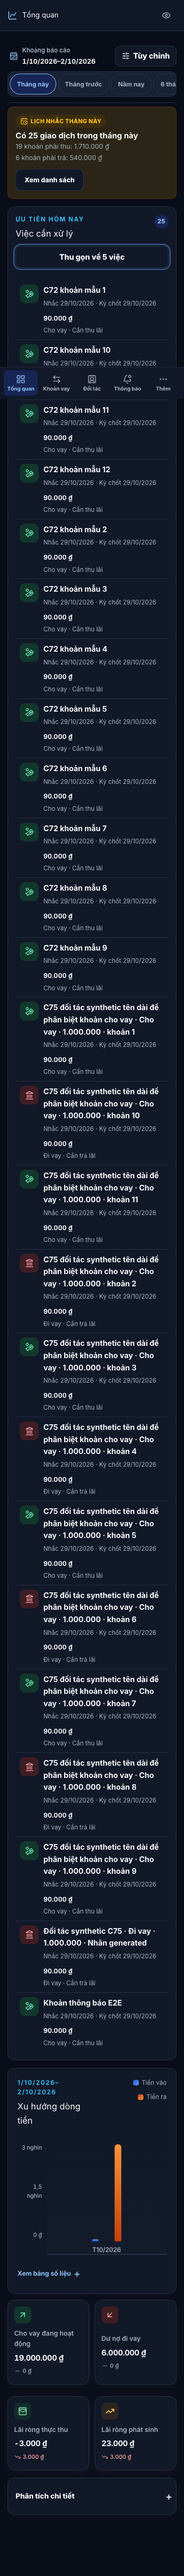
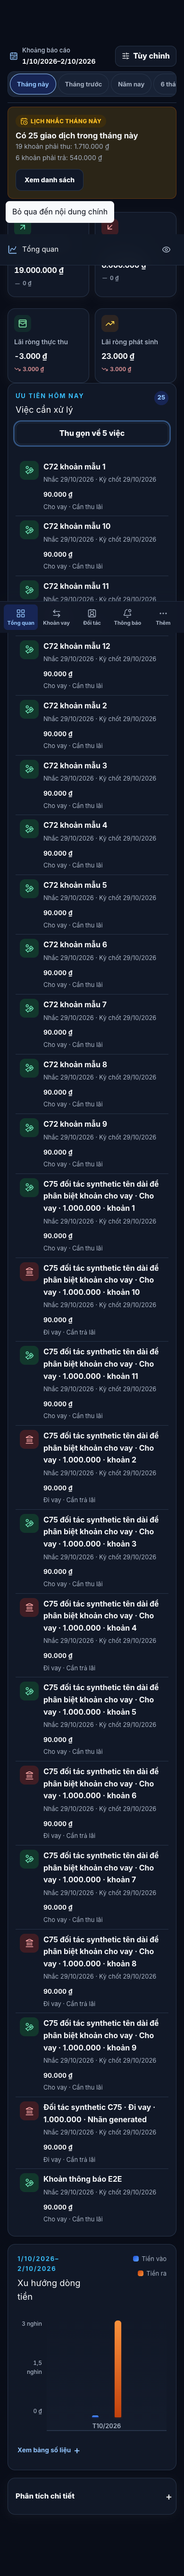
C76: giữ các chỉ số dư nợ và lãi ròng trên việc cần xử lý

diff --git a/apps/web/test/e2e/c72-remediation.spec.ts b/apps/web/test/e2e/c72-remediation.spec.ts
@@ -155,7 +155,10 @@ test("C72 responsive hierarchy and all audited visible targets, light/dark/text 
         expect(data.overflow).toBe(false); expect(data.small).toEqual([]);
         if (route === "/dashboard" && width === 390) {
           const navTop = await page.locator(".mobile-nav-wrap").evaluate(e => e.getBoundingClientRect().top);
-          expect(data.taskBottom).toBeLessThan(navTop);
+          // OWNER prefers the KPI cards before tasks; tasks remain reachable above the sticky nav.
+          const firstTask = page.locator(".due-list a").first();
+          await firstTask.scrollIntoViewIfNeeded();
+          expect((await firstTask.boundingBox())!.y + (await firstTask.boundingBox())!.height).toBeLessThan(navTop);
         }
         if (process.env.C72_EVIDENCE === "true" && [390,1440].includes(width)) { mkdirSync(out,{recursive:true}); await page.screenshot({ path: resolve(out, `${route.slice(1)}-${width}-${colorScheme}.png`), fullPage: true }); }
         await page.keyboard.press("Tab");

diff --git a/apps/web/test/e2e/c75-remediation.spec.ts b/apps/web/test/e2e/c75-remediation.spec.ts
@@ -70,6 +70,11 @@ test("C75 task identity, exact source set, focus and notifications hierarchy", a
       await page.setViewportSize({ width, height: 844 });
       await ready(page, "/dashboard");
       const card = page.locator(".attention-card");
+      const kpis = page.locator(".dashboard-primary-metrics");
+      const kpiBox = (await kpis.boundingBox())!;
+      const taskBox = (await card.boundingBox())!;
+      expect(kpiBox.y + kpiBox.height).toBeLessThanOrEqual(taskBox.y);
+      expect(await kpis.evaluate(e => Boolean(e.nextElementSibling?.querySelector(".attention-card")))).toBe(true);
       const count = Number(await card.locator(".count-badge").innerText());
       expect(count).toBeGreaterThanOrEqual(13);
       await expect(card.locator(".due-item")).toHaveCount(5);

diff --git a/apps/web/src/app/globals.css b/apps/web/src/app/globals.css
@@ -1302,13 +1302,11 @@ details[open] > summary::after { content: "−"; }
   .auth-card { padding-top: 12px; }
 }
 
-/* C72: consistent hit areas and mobile task priority. */
+/* Consistent hit areas; dashboard visual order follows its reading order. */
 .edit-details > summary { display: flex; align-items: center; min-height: 44px; }
 .filter-pills a { min-width: 44px; min-height: 44px; }
 .dashboard-custom-trigger { min-width: 44px; min-height: 44px; }
 @media (max-width: 767px) {
-  .dashboard-primary-metrics { order: 3; }
-  .dashboard-focus-grid { order: 2; }
   .dashboard-workspace { display: flex; flex-direction: column; }
   .dashboard-period-bar { min-height: 0; margin-bottom: 8px; }
   .dashboard-workspace .dashboard-metric { margin-top: 12px; }

diff --git a/PROJECT_CONTEXT.md b/PROJECT_CONTEXT.md
@@ -1,6 +1,6 @@
 ---
 project: QuanLyVayCaNhan
-roadmap_version: 1.0.251
+roadmap_version: 1.0.252
 last_updated: 2026-10-02
 timezone: Asia/Ho_Chi_Minh
 current_checkpoint: C76
@@ -629,9 +629,9 @@ C59 đã đạt:
   để tránh gateway stale, không tác động project anh em. Không blocker local.
   Desktop compact G2/cảnh báo Chrome C73 OPEN ngoài phạm vi; Safari/Firefox/AT/mobile vật lý
   chưa kiểm mới, không coi đây là chứng nhận accessibility.
-- C76 `IN_PROGRESS` (OWNER phê duyệt 2026-10-02): source32fb641 đã push và Required CI
-  37003852476 PASS cả5 jobs/pgTAP527/Auth6/E2E47PASS6SKIP. Local hiện có remediation thêm
-  read retry giới hạn và test focus failure attachment, cần commit/push/CI SHA mới trước release.
+- C76 `IN_PROGRESS` (OWNER phê duyệt 2026-10-02): source1374946c7b954855467f053f2de77fde2e589028 đã push; Required CI
+  37011458346 đã SUCCESS cả5 job; đang kiểm thay đổi bố cục mới. Source32fb641/CI37003852476 đã PASS trước
+  remediation read retry và focus failure attachment; không dùng run cũ để phát hành source mới.
   C74–C75 được bảo toàn/đồng bộ; .vercelignore chặn backup/cache/log/test artifacts/secrets.
   Sửa cash-flow-card min-height:0 scoped grid, six matrix25tasks overflow0/clipped0, chart
   desktop429,234375px delta0 trước/sau mở/thu. Local cuối lint/typecheck/unit90/build19 routes
@@ -648,7 +648,7 @@ C59 đã đạt:
   Alias chính Preview/Production vẫn C73. Cảhai rollback C73 giữ77 backup/60 test artifacts
   trong source (không out); HEAD3 paths mỗi môi trường404 chưa chứng minh mọi URL an toàn;
   chưa tải/xóa artifact cũ. Blocker: cần CI source mới/root full gate ổn định, focus intermittent
-  và browser Auth smoke chờ OWNER mở khóa Mac. Không ghi tài chính/mark-read/thay push remote.
+  và browser Auth smoke candidate mới chưa thực hiện; Mac đã mở khóa. Không ghi tài chính/mark-read/thay push remote.
   C76 chưa COMPLETED, không mở checkpoint kế tiếp. Chi tiết: docs/release-c76/report.md/evidence.json.
 
 - C52 `COMPLETED` ngày 2026-09-25: backup Production mã hóa và restore rehearsal đạt; CI dùng kiểm
@@ -696,3 +696,19 @@ with temporary diagnostic48PASS/5SKIP5,6m. Không tái hiện lần này, root c
 Instrumentation tạm được gỡ về nguyên test assertion của source32fb641; không sửa behavior
 hoặc nới timeout. Chạy lại root Preview pipeline source CI-approved một lần, giữ fail-closed
 trước deploy và giữ read/focus failures là rủi ro mở. Nếu gate fail lại không promote.
+
+C76 source cuối1374946c7b954855467f053f2de77fde2e589028 đã push; Required CI37011458346 đã SUCCESS (source trước đổi bố cục).
+C76 IN_PROGRESS; chưa candidate từ source cuối/chưa promote; focus intermittent và
+Mac đã mở khóa; Auth smoke candidate mới chưa thực hiện. Local lint/typecheck/unit90/build/E2E48PASS5SKIP, secret scan sạch.
+
+C76 điều chỉnh theo chỉ dẫn OWNER: Mac đã mở khóa; các card dư nợ/lãi ròng phải ở
+trên Việc cần xử lý cả mobile/desktop. Bỏ CSS order đảo nhóm trên mobile, giữ DOM
+reading order. Acceptance bổ sung: KPI trước task tại375/390/1440 light/dark, task
+cuộn tới được và không bị nav che; regression focus/chart/privacy/loading giữ nguyên.
+CI37011458346 của source1374946 đã SUCCESS cả5 job; thay đổi bố cục mới phải đạt
+gate/source CI riêng trước candidate, không dùng run1374946 thay thế. C76 IN_PROGRESS.
+
+C76 bố cục KPI trước task: lint/typecheck/unit90/build19/policy/diff-check PASS;
+full E2E48PASS5SKIP6,5m, six viewport/theme đạt thứ tự KPI→task và chart/expand/focus.
+DB test55322 hậu kiểm0/0/0. Mac/profile Chrome có phiên Production hiện hữu.
+Chưa deploy bố cục mới; đang chuẩn bị source commit/CI riêng.

diff --git a/docs/IMPLEMENTATION_PLAN.md b/docs/IMPLEMENTATION_PLAN.md
@@ -1245,7 +1245,7 @@ browser/AT ghi trong report. C74 chưa commit bảo toàn; chưa push/deploy/sch
 **C76 — Đồng bộ và rollout remediation C74–C75.** Trạng thái: `IN_PROGRESS`.
 
 Người dùng phê duyệt ngày 2026-10-02; đã tạo hai candidate9001479 nhưng chưa promote;
-đang sửa card dòng tiền trước source CI/candidate mới.
+đã sửa card dòng tiền; đang kiểm bố cục KPI trên task theo chỉ dẫn mới của OWNER.
 
 Mục tiêu: đưa source/bằng chứng C74–C75 đã đạt gate lên GitHub và phát hành qua Preview,
 Production có authenticated smoke thực. Không mở rộng redesign hoặc thay đổi database.
@@ -1289,9 +1289,25 @@ C67 focus Tab wrap. Local thêm readRpcWithGatewayRetry: chỉ8 RPC đã đối 
 max2 attempts100ms gateway502/503/504 không SQL code/abort, không mutation/Auth/SQL retry.
 Failure-only focus attachment giữ assertion/timing; root cause focus OPEN, riêng8+20 PASS,
 full suite lúc đạt/lúc fail. Final local lint/typecheck/unit90/build19/E2E48PASS5SKIP5,5m,
-DB test teardown0/0/0; source sửa cuối phải commit/push và CI exactSHA trước candidate mới.
+DB test teardown0/0/0; source sửa cuối1374946 đã commit/push; CI37011458346 đã SUCCESS; thay đổi bố cục mới cần CI đúng SHA trước candidate mới.
 Dry201 regular files4525732bytes/0 forbidden; .vercelignore loại backup/cache/log/secrets.
 Chart six matrix25tasks desktop delta0/overflow0/clipped0. Hai candidate9001479 superseded,
 chưa promote; stable aliases giữ C73. C76 IN_PROGRESS, chưa tạo checkpoint kế tiếp.
-Auth browser smoke chờ OWNER mở khóa Mac; gateway/focus vẫn ghi rủi ro mở, không coi lần
+Mac đã mở khóa; Auth browser smoke candidate mới chưa thực hiện; gateway/focus vẫn ghi rủi ro mở, không coi lần
 E2E đạt là root cause đã đóng. Chi tiết history/evidence tại docs/release-c76/.
+
+C76 source cuối1374946c7b954855467f053f2de77fde2e589028 đã push; Required CI37011458346 đã SUCCESS (source trước đổi bố cục).
+C76 IN_PROGRESS; chưa candidate từ source cuối/chưa promote; focus intermittent và
+Mac đã mở khóa; Auth smoke candidate mới chưa thực hiện. Local lint/typecheck/unit90/build/E2E48PASS5SKIP, secret scan sạch.
+
+C76 điều chỉnh theo chỉ dẫn OWNER: Mac đã mở khóa; các card dư nợ/lãi ròng phải ở
+trên Việc cần xử lý cả mobile/desktop. Bỏ CSS order đảo nhóm trên mobile, giữ DOM
+reading order. Acceptance bổ sung: KPI trước task tại375/390/1440 light/dark, task
+cuộn tới được và không bị nav che; regression focus/chart/privacy/loading giữ nguyên.
+CI37011458346 của source1374946 đã SUCCESS cả5 job; thay đổi bố cục mới phải đạt
+gate/source CI riêng trước candidate, không dùng run1374946 thay thế. C76 IN_PROGRESS.
+
+C76 bố cục KPI trước task: lint/typecheck/unit90/build19/policy/diff-check PASS;
+full E2E48PASS5SKIP6,5m, six viewport/theme đạt thứ tự KPI→task và chart/expand/focus.
+DB test55322 hậu kiểm0/0/0. Mac/profile Chrome có phiên Production hiện hữu.
+Chưa deploy bố cục mới; đang chuẩn bị source commit/CI riêng.

diff --git a/docs/release-c76/report.md b/docs/release-c76/report.md
@@ -230,3 +230,23 @@ Không ghi đây là đã sửa focus. Source runtime read retry giữ đúng wh
 100ms/max2 attempts gateway-only, mutation/Auth/SQL/abort không retry. Candidate mới chỉ
 được tạo khi Required CI source mới và root full gate đạt; không dùng green32fb641
 cho source đã đổi. Browser Auth smoke vẫn chờ OWNER mở khóa Mac.
+
+Source1374946c7b954855467f053f2de77fde2e589028 đã push, Required CI37011458346 đang chạy.
+Không dùng green32fb641 cho source hiện tại. Không mark-completed/promote khi thiếu Auth smoke.
+
+## Điều chỉnh bố cục OWNER yêu cầu
+
+Mac đã mở khóa, Chrome profile hiện hữu truy cập được Production có Auth. Required CI
+37011458346 của1374946 SUCCESS cả5 job. OWNER yêu cầu các card dư nợ/lãi ròng ở trên
+Việc cần xử lý trên mọi viewport. Bỏ CSS mobile order3/2 để thứ tự hiển thị khớp DOM
+KPI→task; skeleton vốn đã có bốn card trước panel. Giữ số liệu/nguồn tiền/drawer/loading.
+Regression C75 bổ sung geometry/reading order tại375/390/1440 light/dark; C72 kiểm task
+cuộn tới được trên nav thay acceptance action-first cũ. Gate bố cục mới đang chạy; chưa
+candidate mới, chưa promote. Các ghi nhận Mac locked/CI pending phía trên là lịch sử.
+
+Gate bố cục mới: lint/typecheck/unit90/build19/policy/diff-check PASS; fullE2E48PASS5SKIP
+6,5m. Six375/390/1440 light/dark geometry KPI bottom≤task top, reading order khớp;
+C72 task cuộn tới nằm trên nav. Chart không stretch khi expand/collapse; C67 focus PASS
+lần này, root cause intermittent vẫn OPEN. Teardown/postcheck DB55322 profiles/loans/
+transactions0/0/0. Upload dry201 regular/4.527.113bytes/0 forbidden. Ảnh synthetic C75
+được recapture; đã xem mobile390light, các card KPI ở trên task; không pixel A/B với C74.
